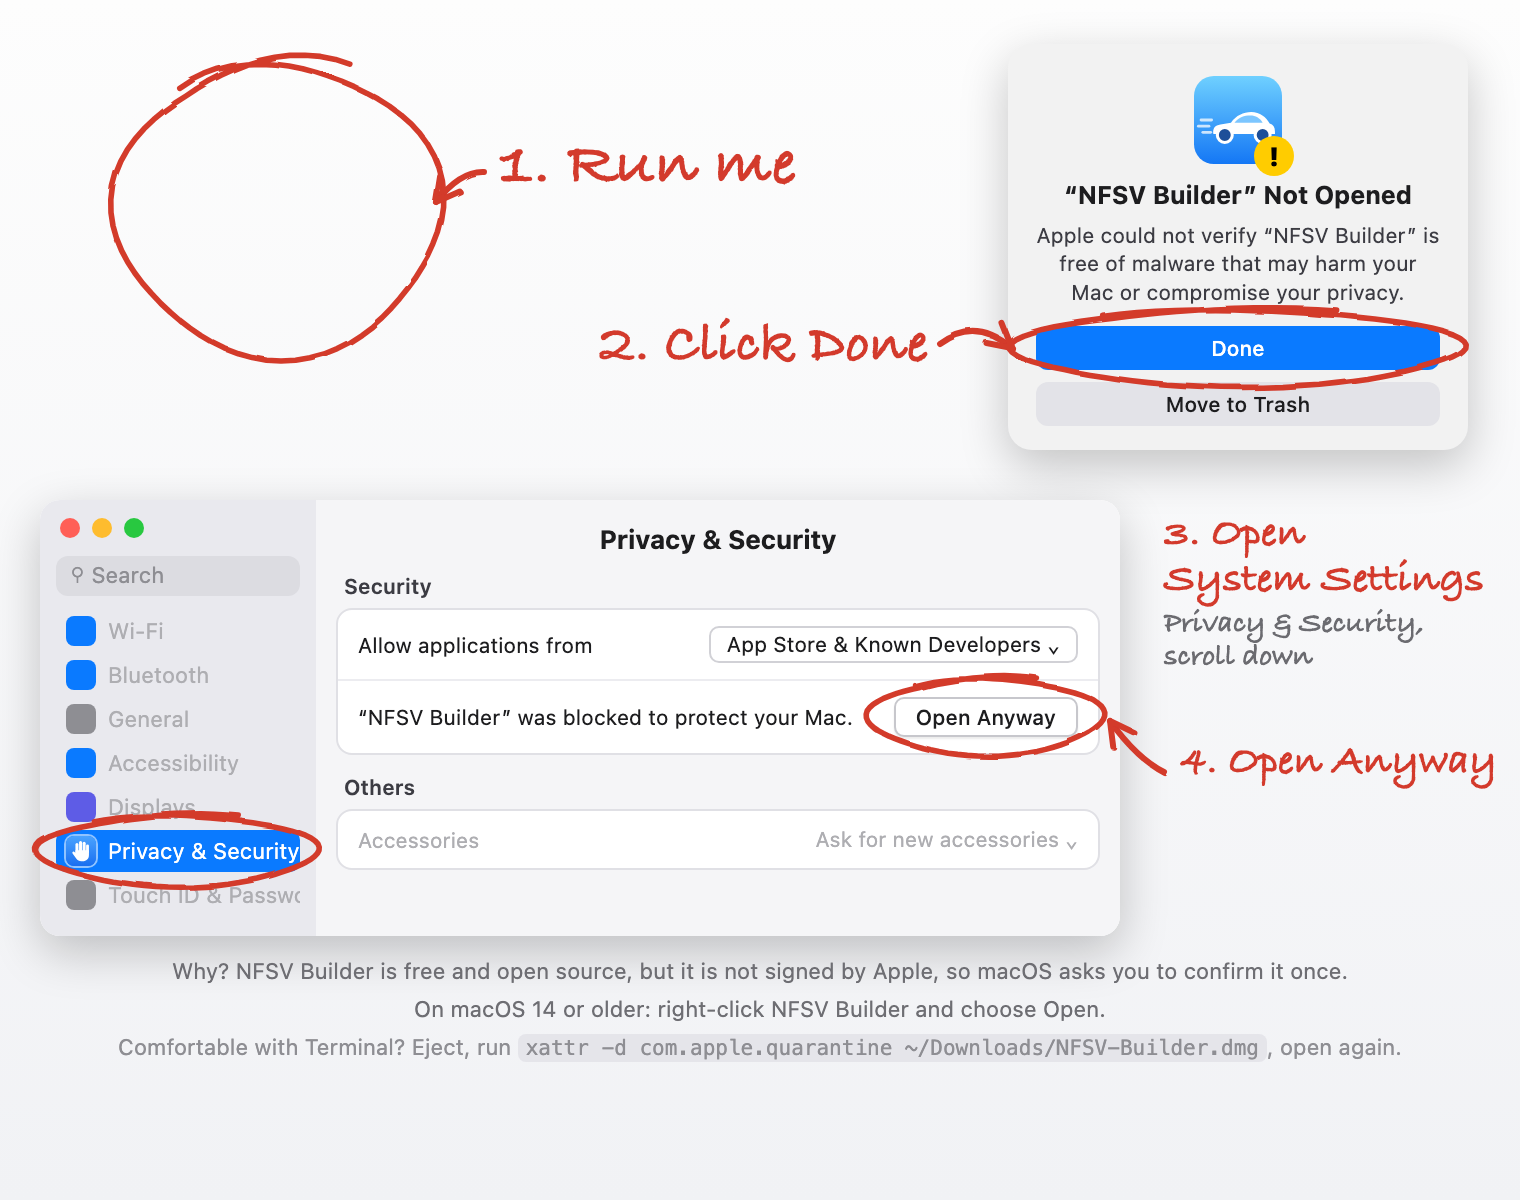
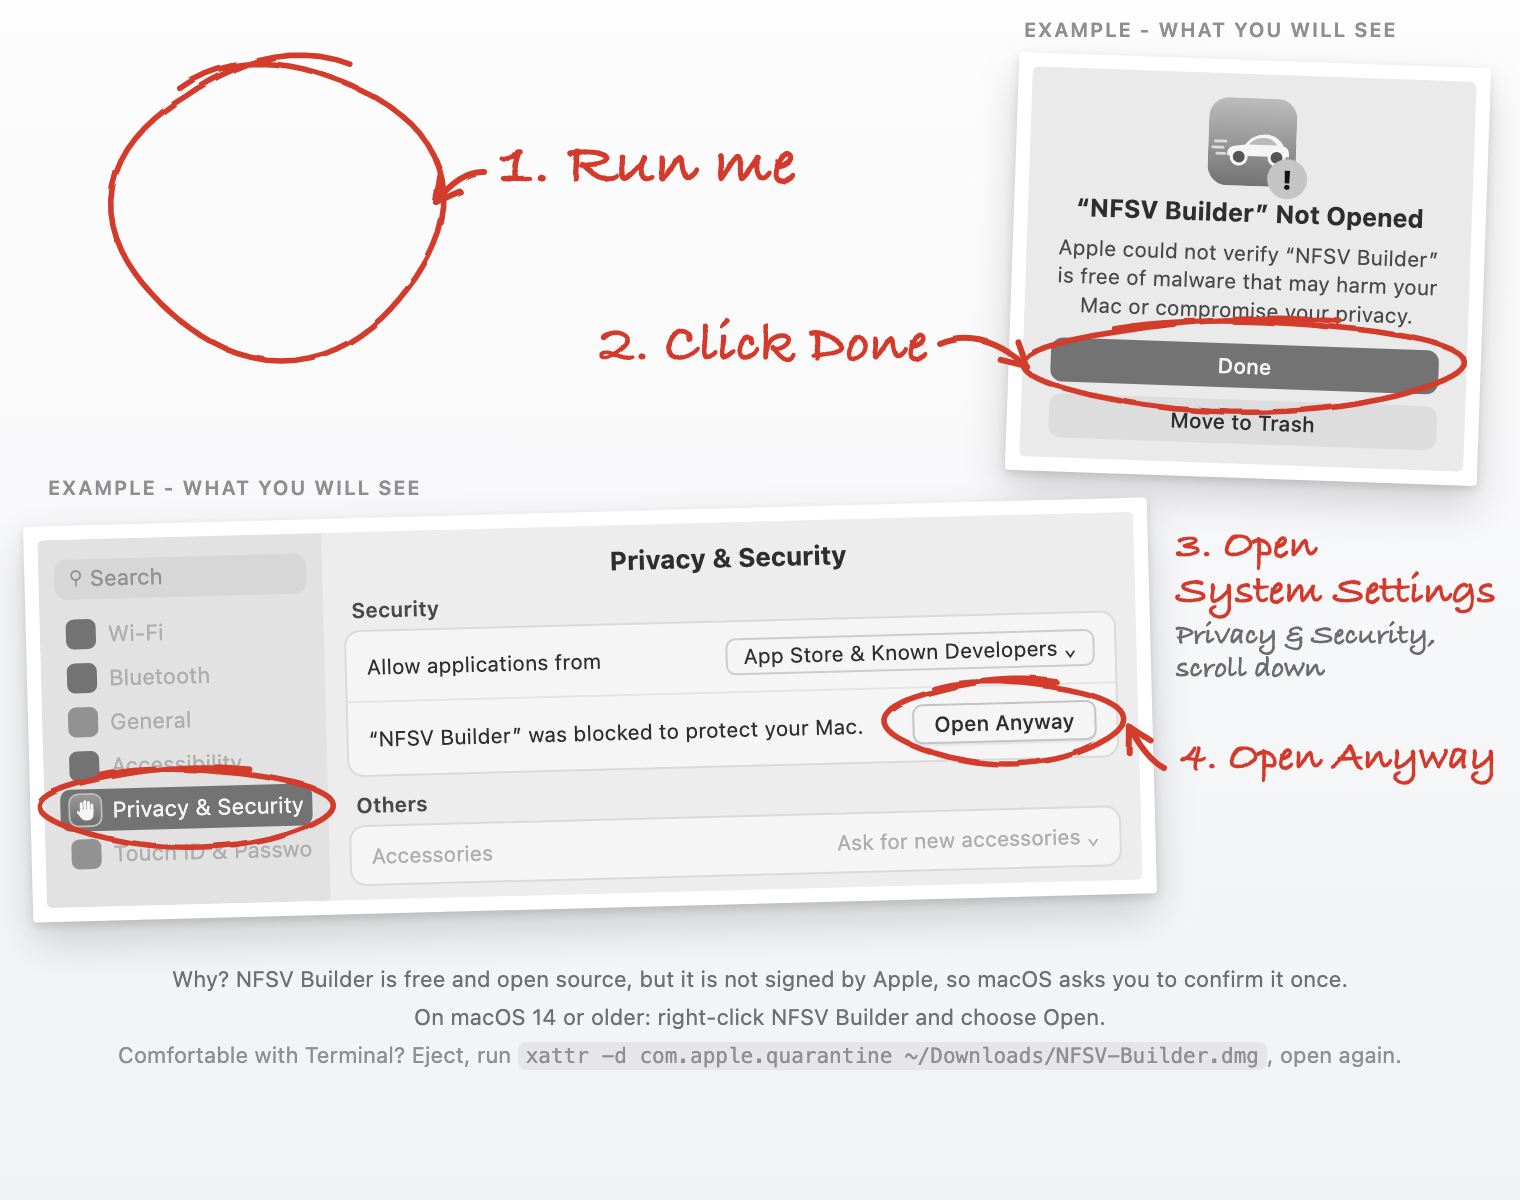
Show DMG examples as greyscale photo cards

diff --git a/builder/dmg/background.html b/builder/dmg/background.html
@@ -9,25 +9,27 @@ html,body{margin:0;padding:0;background:#f1f2f5}
 .appicon{width:86px;height:86px;border-radius:20px;box-shadow:0 4px 10px rgba(0,0,0,.18);margin:0 auto 6px;overflow:hidden}
 
 .lbl12{font-size:12px;text-align:center}
-.alert{width:230px;background:#f2f2f2;border-radius:12px;box-shadow:0 8px 24px rgba(0,0,0,.22);padding:16px 14px 12px;text-align:center;font-size:10.5px;box-sizing:border-box}
-.alert .ai{width:44px;height:44px;margin:0 auto 8px;position:relative}
+/* Example drawings are greyscale photo prints; only the red pencil stays in colour. */
+.photo{position:absolute;background:#fff;padding:7px;border-radius:2px;box-shadow:0 10px 22px rgba(0,0,0,.16),0 2px 5px rgba(0,0,0,.12)}
+.pic{filter:grayscale(1) contrast(.85) brightness(1.04)}
+.ex{position:absolute;font-size:10px;font-weight:600;letter-spacing:.08em;color:#8e8e93;white-space:nowrap}
+.alert{width:222px;background:#f2f2f2;border-radius:3px;padding:12px 14px 10px;text-align:center;font-size:10.5px;box-sizing:border-box}
+.alert .ai{width:44px;height:44px;margin:0 auto 6px;position:relative}
 .alert .ai svg{display:block;width:44px;height:44px}
 .alert .ai:after{content:"!";position:absolute;right:-6px;bottom:-6px;width:20px;height:20px;border-radius:50%;background:#ffcc00;color:#000;font-weight:900;font-size:13px;line-height:20px;text-align:center}
 .alert h4{margin:0 0 6px;font-size:12.5px}
 .alert p{margin:0 0 10px;color:#3c3c43;line-height:1.35}
 .alert .bt{padding:5px;border-radius:6px;background:#e3e3e8;font-weight:500;margin-top:6px}
 .alert .bt.pri{background:#0a7aff;color:#fff}
-.set{background:#fff;border-radius:10px;box-shadow:0 8px 24px rgba(0,0,0,.22);overflow:hidden;display:flex}
-.sb{width:138px;background:#e9e9ee;padding:28px 8px 8px;font-size:11px;position:relative;box-sizing:border-box;flex:none}
-.sb .lights{position:absolute;left:10px;top:9px;display:flex;gap:6px}
-.sb .lights i{width:10px;height:10px;border-radius:50%;display:inline-block}
+.set{background:#fff;border-radius:3px;overflow:hidden;display:flex}
+.sb{width:142px;background:#e9e9ee;padding:10px 8px 8px;font-size:11px;position:relative;box-sizing:border-box;flex:none}
 .sb .srch{background:#dcdce1;border-radius:6px;padding:3px 7px;color:#8e8e93;margin-bottom:7px}
 .sb .it{display:flex;align-items:center;gap:6px;padding:3px 5px;border-radius:5px;margin-bottom:1px;white-space:nowrap;overflow:hidden}
 .sb .it s{width:15px;height:15px;border-radius:4px;display:inline-block;text-decoration:none;flex:none}
 .sb .sel{background:#0a7aff;color:#fff}
 .main{flex:1;padding:10px 10px;font-size:10.5px;background:#f5f5f7}
-.main .h{font-weight:700;font-size:13px;text-align:center;margin:2px 0 10px}
-.main .gl{font-weight:600;color:#3c3c43;margin:0 0 5px 4px}
+.main .h{font-weight:700;font-size:13px;text-align:center;margin:0 0 8px}
+.main .gl{font-weight:600;color:#3c3c43;margin:0 0 4px 4px}
 .grp{background:#fff;border-radius:8px;border:1px solid #e0e0e5}
 .grp .r{display:flex;align-items:center;justify-content:space-between;padding:8px 10px;border-bottom:1px solid #ececf0;gap:8px;white-space:nowrap}
 .grp .r:last-child{border-bottom:none}
@@ -48,23 +50,23 @@ svg.ink path{fill:none;stroke:#d33a2c;stroke-linecap:round;stroke-linejoin:round
     <div class="abs hand" id="n1" style="left:250px;top:66px;font-size:32px">1. Run me
       </div>
 
-    <div class="abs alert" style="left:504px;top:22px">
+    <div class="ex" style="left:512px;top:9px">EXAMPLE - WHAT YOU WILL SEE</div>
+    <div class="photo" style="left:506px;top:30px;transform:rotate(2deg)"><div class="alert pic">
       <div class="ai"><svg viewBox="0 0 100 100"><defs><linearGradient id="bgA" x1="0" y1="0" x2="0" y2="1"><stop offset="0" stop-color="#6fd0ff"/><stop offset="1" stop-color="#1477f5"/></linearGradient></defs><rect width="100" height="100" rx="22.5" fill="url(#bgA)"/><g stroke="#ffffff" stroke-width="3.2" stroke-linecap="round" opacity=".75"><path d="M8 50 H20"/><path d="M5 57 H17"/><path d="M10 64 H19"/></g><path d="M22 66 C21 59 24 56 30 55 L42 53 C48 45 56 41 65 41 C75 41 82 47 86 54 C90 55 92 58 92 63 L92 66 Z" fill="#fff"/><path d="M46 53 C51 47 57 45 64 45 C70 45 75 48 78 53 Z" fill="#7cc6ff"/><circle cx="35" cy="67" r="8.5" fill="#1d4f99" stroke="#fff" stroke-width="3.5"/><circle cx="78" cy="67" r="8.5" fill="#1d4f99" stroke="#fff" stroke-width="3.5"/></svg></div>
       <h4>&ldquo;NFSV Builder&rdquo; Not Opened</h4>
       <p>Apple could not verify &ldquo;NFSV Builder&rdquo; is free of malware that may harm your Mac or compromise your privacy.</p>
       <div class="bt pri" id="done">Done</div><div class="bt">Move to Trash</div>
-    </div>
+    </div></div>
     <div class="abs hand" id="n2" style="left:300px;top:158px;font-size:28px">2. Click Done</div>
 
-    <div class="abs set" style="left:20px;top:250px;width:540px;height:218px">
+    <div class="ex" style="left:24px;top:238px">EXAMPLE - WHAT YOU WILL SEE</div>
+    <div class="photo" style="left:14px;top:256px;transform:rotate(-1.5deg)"><div class="set pic" style="width:548px;height:184px">
       <div class="sb">
-        <div class="lights"><i style="background:#ff5f57"></i><i style="background:#febc2e"></i><i style="background:#28c840"></i></div>
         <div class="srch">&#9906; Search</div>
         <div class="it fade"><s style="background:#0a7aff"></s>Wi-Fi</div>
         <div class="it fade"><s style="background:#0a7aff"></s>Bluetooth</div>
         <div class="it fade"><s style="background:#8e8e93"></s>General</div>
         <div class="it fade"><s style="background:#0a7aff"></s>Accessibility</div>
-        <div class="it fade"><s style="background:#5e5ce6"></s>Displays</div>
         <div class="it sel" id="privacy"><svg width="15" height="15" viewBox="0 0 20 20" style="flex:none;border-radius:4px;box-shadow:0 0 0 1px rgba(255,255,255,.55)"><defs><linearGradient id="psg" x1="0" y1="0" x2="0" y2="1"><stop offset="0" stop-color="#4aa3ff"/><stop offset="1" stop-color="#1a6ff0"/></linearGradient></defs><rect width="20" height="20" rx="4.5" fill="url(#psg)"/><g fill="#fff"><rect x="6.3" y="4.6" width="2" height="7" rx="1"/><rect x="8.7" y="3.4" width="2" height="8" rx="1"/><rect x="11.1" y="3.9" width="2" height="7.5" rx="1"/><rect x="13.4" y="5.6" width="1.9" height="6" rx=".95"/><path d="M6.3 9.5 H15.3 V12.6 C15.3 15.2 13.6 16.8 11.1 16.8 H10.2 C8.7 16.8 7.7 16.2 6.8 15 L4.4 11.7 C3.9 11 4.6 10.1 5.4 10.5 L6.3 11.2 Z"/></g></svg>Privacy &amp; Security</div>
         <div class="it fade"><s style="background:#8e8e93"></s>Touch ID &amp; Password</div>
       </div>
@@ -75,14 +77,14 @@ svg.ink path{fill:none;stroke:#d33a2c;stroke-linecap:round;stroke-linejoin:round
           <div class="r"><span>Allow applications from</span><span class="pop">App Store &amp; Known Developers &#8964;</span></div>
           <div class="r"><span>&ldquo;NFSV Builder&rdquo; was blocked to protect your Mac.</span><span class="oa" id="oa">Open Anyway</span></div>
         </div>
-        <div class="gl" style="margin-top:10px">Others</div>
+        <div class="gl" style="margin-top:8px">Others</div>
         <div class="grp fade"><div class="r"><span>Accessories</span><span>Ask for new accessories &#8964;</span></div></div>
       </div>
-    </div>
-    <div class="abs hand" style="left:582px;top:256px;font-size:21px">3. Open
+    </div></div>
+    <div class="abs hand" style="left:588px;top:262px;font-size:21px">3. Open
       <div>System Settings</div>
       <small>Privacy &amp; Security,<br>scroll down</small></div>
-    <div class="abs hand" id="n4" style="left:590px;top:370px;font-size:21px">4. Open Anyway
+    <div class="abs hand" id="n4" style="left:590px;top:368px;font-size:21px">4. Open Anyway
       </div>
 
     <svg class="ink" id="ink" width="760" height="600" viewBox="0 0 760 600">
@@ -90,9 +92,9 @@ svg.ink path{fill:none;stroke:#d33a2c;stroke-linecap:round;stroke-linejoin:round
       <g id="strokes" filter="url(#pencil)"></g>
     </svg>
 
-    <div class="abs tip" style="bottom:108px;color:#6e6e73">Why? NFSV Builder is free and open source, but it is not signed by Apple, so macOS asks you to confirm it once.</div>
-    <div class="abs tip" style="bottom:89px;color:#6e6e73">On macOS 14 or older: right-click NFSV Builder and choose Open.</div>
-    <div class="abs tip" style="bottom:70px">Comfortable with Terminal? Eject, run <span class="cmd">xattr -d com.apple.quarantine ~/Downloads/NFSV-Builder.dmg</span>, open again.</div>
+    <div class="abs tip" style="bottom:104px;color:#6e6e73">Why? NFSV Builder is free and open source, but it is not signed by Apple, so macOS asks you to confirm it once.</div>
+    <div class="abs tip" style="bottom:85px;color:#6e6e73">On macOS 14 or older: right-click NFSV Builder and choose Open.</div>
+    <div class="abs tip" style="bottom:66px">Comfortable with Terminal? Eject, run <span class="cmd">xattr -d com.apple.quarantine ~/Downloads/NFSV-Builder.dmg</span>, open again.</div>
   </div>
 </div>
 <script>
